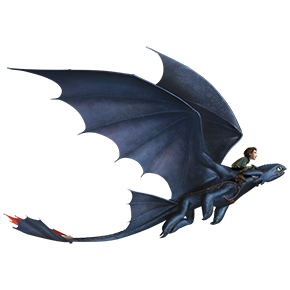
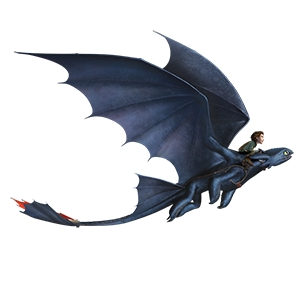
Done smth with bat and dragon.

Changed region(s): [[0.031, 0.0931, 0.9931, 0.8379], [0.0, 0.7138, 0.031, 0.7448]]

diff --git a/core/src/com/mygdx/game/Dragon.java b/core/src/com/mygdx/game/Dragon.java
@@ -17,7 +17,6 @@ public class Dragon {
     Vector2 position;
     Texture texture;
     float speed;
-    int fireRate;
     int fireCounter;
     int hp;
     Circle hitArea;
@@ -26,16 +25,15 @@ public class Dragon {
         texture = new Texture(pictureWithDragon);
         position = new Vector2(100, 328);
         speed = 10.0f;
-        fireRate = 4;
         fireCounter = 0;
         hp = dragonHit;
-        hitArea = new Circle(position, ((int)(dragonSize/2)));
+        hitArea = new Circle(position, ((int)(pictureWithDragonSize/2)));
     }
 
     public void takeDamage() {
         hp--;
-        if (hp <= 0) {
-            gameOver();
+        if (hp == 0) {
+            texture = new Texture(pictureWithDefeatedDragon);
         }
     }
 
@@ -56,37 +54,37 @@ public class Dragon {
         if (Gdx.input.isKeyPressed(Input.Keys.W)) {
             position.y += speed;
         }
-        if (Gdx.input.isKeyPressed(Input.Keys.L)) {
+        if (Gdx.input.isKeyPressed(Input.Keys.F)) {
             fireCounter++;
-            if (fireCounter >= fireRate) {
+            if (fireCounter >= dragonFireRate) {
                 fireCounter = 0;
                  fire();
             }
         }
         if (Gdx.input.isTouched()) {
-            if (position.x + ((int) (dragonSize / 2)) > Gdx.input.getX()) {
+            if (position.x + ((int) (pictureWithDragonSize / 2)) > Gdx.input.getX()) {
                 position.x -= speed;
             }
-            if (position.x + ((int) (dragonSize / 2)) < Gdx.input.getX()) {
+            if (position.x + ((int) (pictureWithDragonSize / 2)) < Gdx.input.getX()) {
                 position.x += speed;
             }
-            if (position.y + ((int) (dragonSize / 2)) > screenWidth - Gdx.input.getY()) {
+            if (position.y + ((int) (pictureWithDragonSize / 2)) > screenWidth - Gdx.input.getY()) {
                 position.y -= speed;
             }
-            if (position.y + ((int) (dragonSize / 2)) < screenWidth - Gdx.input.getY()) {
+            if (position.y + ((int) (pictureWithDragonSize / 2)) < screenWidth - Gdx.input.getY()) {
                 position.y += speed;
             }
         }
         if (position.x < 0) {
             position.x = 0;
         }
-        if (position.x > (screenWidth - dragonSize)) {
-            position.x = (screenWidth - dragonSize);
+        if (position.x > (screenWidth - pictureWithDragonSize)) {
+            position.x = (screenWidth - pictureWithDragonSize);
         }
         if (position.y > screenHight) {
-            position.y = -((int) (dragonSize / 2));
+            position.y = -((int) (pictureWithDragonSize / 2));
         }
-        if (position.y < -((int) (dragonSize / 2))) {
+        if (position.y < -((int) (pictureWithDragonSize / 2))) {
             position.y = screenHight;
         }
     }
@@ -94,7 +92,7 @@ public class Dragon {
         public void fire() {
             for (int i = 0; i < amountOfFire; i++) {
                 if (!MyFisrtGame.fires[i].active) {
-                    MyFisrtGame.fires[i].activate(position.x + ((int)((dragonSize/3)*2)), position.y + ((int)(dragonSize/2)));
+                    MyFisrtGame.fires[i].activate(position.x + ((int)((pictureWithDragonSize))), position.y + ((int)(pictureWithDragonSize/2)));
                     break;
                 }
             }

diff --git a/core/src/com/mygdx/game/AdditionalLibrary.java b/core/src/com/mygdx/game/AdditionalLibrary.java
@@ -2,29 +2,38 @@ package com.mygdx.game;
 
 import com.badlogic.gdx.graphics.g2d.SpriteBatch;
 
+/**
+ * Created by Ivelserj on 08.11.2017.
+ */
+
 public class AdditionalLibrary {
-    // game screen size
     public static String gameName = "Dragon riders";
     // game screen size
     public static int screenHight = 720;
     public static int screenWidth = 1280;
     // description of the dragon
     static String pictureWithDragon = "toothless.png";
-    static int dragonSize = 290;
-    static int rangOfFire = 100;
+    static String pictureWithDefeatedDragon = "defeatedToothless.png";
+    static int pictureWithDragonSize = 304;
+    static int dragonRangeOfFire = 300;
+    static int dragonFireRate = 5;
     static int dragonHit = 5;
     // description of the clouds
     static String pictureWithCloud = "cloud.png";
-    static int cloudSize = 157;
+    static int pictureWithCloudSize = 157;
     static int amountOfCloud = 20;
     // description of the fire
     static String pictureWithFire = "fire.png";
-    static int fireSize = 70;
+    static int pictureWithFireSize = 70;
     static int amountOfFire = 30;
     // description of the bat
-    static String pictureWithBat = "witch.png";
-    static int batSize = 100;
+    static String pictureWithBat = "bat.png";
+    static int pictureWithBatSize = 100;
     static int amountOfBat = 10;
+    // description of the witch
+    static String pictureWithWitch = "witch.png";
+    static int pictureWithWitchwitchSize = 100;
+    static int amountOfWitch = 10;
 
     SpriteBatch batch;
 
@@ -36,9 +45,8 @@ public class AdditionalLibrary {
         }
         return object;
     }
-    public static int gameOver(){
-        dragonSize = 0;
-        return dragonSize;
+    public static void gameOver(){
+
     }
 
 }

diff --git a/core/src/com/mygdx/game/Bat.java b/core/src/com/mygdx/game/Bat.java
@@ -30,7 +30,7 @@ public class Bat {
         hp = maxHp;
         scale = 1.f;
 //        scale = 1.f + (float) Math.random() * maxHp;
-        hitArea = new Circle(position, ((int)(batSize/2)));
+        hitArea = new Circle(position, ((int)(pictureWithBatSize/2)));
     }
 
     public void recreate() {
@@ -43,7 +43,7 @@ public class Bat {
         hp = maxHp;
         scale = 1.f;
 //        scale = 1.f + (float) Math.random() * maxHp;
-        hitArea.radius = ((int)(batSize/2));
+        hitArea.radius = ((int)(pictureWithBatSize/2));
     }
 
     public void takeDamage() {
@@ -54,12 +54,12 @@ public class Bat {
     }
 
     public void render(SpriteBatch batch) {
-        batch.draw(texture, position.x - ((int)(batSize/2)), position.y - ((int)(batSize/2)), ((int)(batSize/2)), ((int)(batSize/2)), batSize, batSize, scale, scale, 0, 0, 0, batSize, batSize, false, false);
+        batch.draw(texture, position.x - ((int)(pictureWithBatSize/2)), position.y - ((int)(pictureWithBatSize/2)), ((int)(pictureWithBatSize/2)), ((int)(pictureWithBatSize/2)), pictureWithBatSize, pictureWithBatSize, scale, scale, 0, 0, 0, pictureWithBatSize, pictureWithBatSize, false, false);
     }
 
     public void update() {
         position.x -= speed;
-        if (position.x < -200) {
+        if (position.x < -300) {
             recreate();
         }
         hitArea.setPosition(position);

diff --git a/core/src/com/mygdx/game/Cloud.java b/core/src/com/mygdx/game/Cloud.java
@@ -19,7 +19,7 @@ public class Cloud {
     public Cloud() {
         texture = new Texture(pictureWithCloud);
         position = new Vector2((float) Math.random() * screenWidth + screenWidth, (float) Math.random() * screenHight);
-        scale = 2.0f * (float) (Math.random() * cloudSize);
+        scale = 2.0f * (float) (Math.random() * pictureWithCloudSize);
         speed = 0.3f * (float) (Math.random() * (scale));
         transparency = (float) Math.random();
     }
@@ -31,13 +31,13 @@ public class Cloud {
     public void recreate() {
         position.x = screenWidth + (float) Math.random() * screenWidth;
         position.y = (float) Math.random() * screenHight;
-        scale = 1.0f * (float) (Math.random() * cloudSize);
+        scale = 1.0f * (float) (Math.random() * pictureWithCloudSize);
         speed = 0.3f * (float) (Math.random() * (scale));
     }
 
     public void update() {
         position.x -= speed;
-        if (position.x < - (cloudSize * 2)) {
+        if (position.x < - (pictureWithCloudSize * 2)) {
             recreate();
         }
     }

diff --git a/core/src/com/mygdx/game/MyFisrtGame.java b/core/src/com/mygdx/game/MyFisrtGame.java
@@ -1,6 +1,7 @@
 package com.mygdx.game;
 
 import com.badlogic.gdx.ApplicationAdapter;
+import com.badlogic.gdx.graphics.Texture;
 import com.badlogic.gdx.graphics.g2d.SpriteBatch;
 
 import static com.mygdx.game.AdditionalLibrary.*;
@@ -77,14 +78,14 @@ public class MyFisrtGame extends ApplicationAdapter {
 			}
 		}
 		// hit on dragon
-//		for (int i = 0; i < amountOfBat; i++) {
-//			bats[i].update();
-//			if (bats[i].hitArea.contains(dragon.position)) {
-//				dragon.takeDamage();
-//				bats[i].recreate();
-//				break;
-//			}
-//		}
+		for (int i = 0; i < amountOfBat; i++) {
+			bats[i].update();
+			if (dragon.hitArea.overlaps(bats[i].hitArea)) {
+                bats[i].recreate();
+				dragon.takeDamage();
+                amountOfFire = 0;
+			}
+		}
 	}
 	
 	@Override

diff --git a/core/src/com/mygdx/game/Fire.java b/core/src/com/mygdx/game/Fire.java
@@ -25,7 +25,6 @@ public class Fire {
     }
 
     public void deactivate() {
-
         active = false;
     }
 
@@ -34,12 +33,12 @@ public class Fire {
         position.set(x, y);
     }
     public void render(SpriteBatch batch) {
-        batch.draw(texture, position.x - ((int) (fireSize/2)), position.y - ((int)(fireSize/2)));
+        batch.draw(texture, position.x - ((int) (pictureWithFireSize/2)), position.y - ((int)(pictureWithFireSize/2)));
     }
 
     public void update() {
         position.x += speed;
-        if (position.x > screenWidth) {
+        if (position.x > screenWidth - dragonRangeOfFire) {
             deactivate();
         }
     }

diff --git a/desktop/src/com/mygdx/game/desktop/DesktopLauncher.java b/desktop/src/com/mygdx/game/desktop/DesktopLauncher.java
@@ -5,7 +5,6 @@ import com.badlogic.gdx.backends.lwjgl.LwjglApplicationConfiguration;
 import static com.mygdx.game.AdditionalLibrary.*;
 import com.mygdx.game.MyFisrtGame;
 
-import javax.swing.plaf.synth.SynthOptionPaneUI;
 
 public class DesktopLauncher {
 
